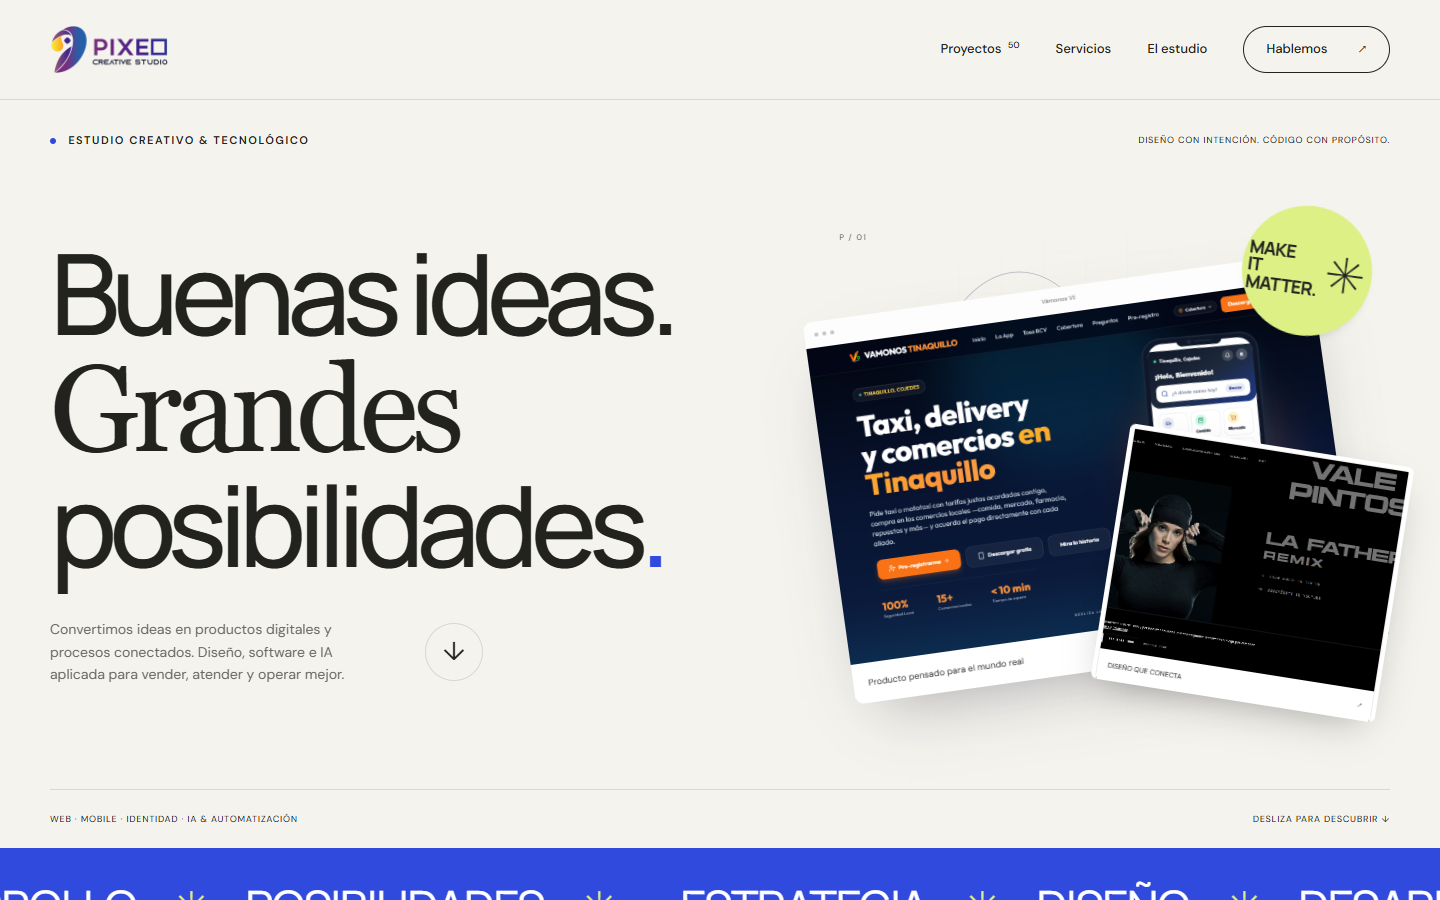
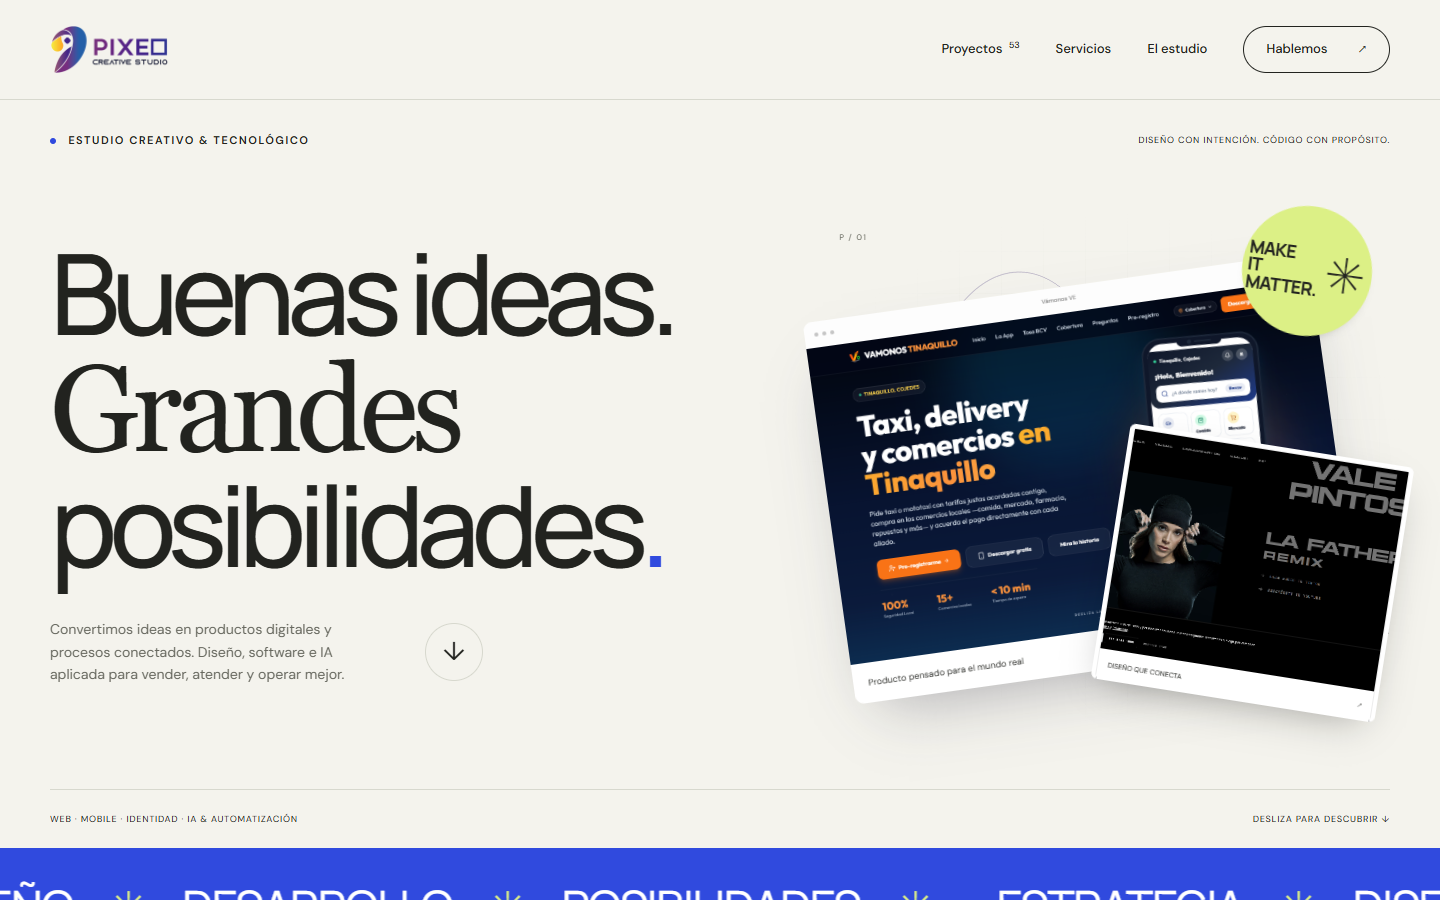
Completar 54 casos y verificar capturas locales e historicas

Changed region(s): [[0.0, 0.9644, 1.0, 1.0], [0.6562, 0.0311, 0.7188, 0.0622]]

diff --git a/data/local-captures.js b/data/local-captures.js
@@ -1,0 +1,136 @@
+// Interfaces locales verificadas y material historico identificado.
+export const localCaptures = [
+  {
+    "id": "calendario-operativo",
+    "image": "/assets/img/projects/2026-09-08/calendario-operativo-local.png",
+    "imageType": "local",
+    "captureVerifiedAt": "2026-09-08",
+    "imageCaption": "Componente local con datos de ejemplo"
+  },
+  {
+    "id": "clover-checkout-lab",
+    "image": "/assets/img/projects/2026-09-08/clover-checkout-lab-local.png",
+    "imageType": "local",
+    "captureVerifiedAt": "2026-09-08",
+    "imageCaption": "Vista local sin conexion a servicios"
+  },
+  {
+    "id": "course-management-lab",
+    "image": "/assets/img/projects/2026-09-08/course-management-lab-local.png",
+    "imageType": "local",
+    "captureVerifiedAt": "2026-09-08",
+    "imageCaption": "Vista local con datos de ejemplo"
+  },
+  {
+    "id": "extension-csv-renamer",
+    "image": "/assets/img/projects/2026-09-08/extension-csv-renamer-local.png",
+    "imageType": "local",
+    "captureVerifiedAt": "2026-09-08",
+    "imageCaption": "Vista local de configuracion"
+  },
+  {
+    "id": "gana-con-jym",
+    "image": "/assets/img/projects/2026-09-08/gana-con-jym-local.png",
+    "imageType": "local",
+    "captureVerifiedAt": "2026-09-08",
+    "imageCaption": "Vista local sin conexion a servicios"
+  },
+  {
+    "id": "hrglobalandco",
+    "image": "/assets/img/projects/2026-09-08/hrglobalandco-local.png",
+    "imageType": "local",
+    "captureVerifiedAt": "2026-09-08",
+    "imageCaption": "Vista local sin conexion a servicios"
+  },
+  {
+    "id": "martial-score",
+    "image": "/assets/img/projects/2026-09-08/martial-score-local.png",
+    "imageType": "local",
+    "captureVerifiedAt": "2026-09-08",
+    "imageCaption": "Componente local con datos de ejemplo"
+  },
+  {
+    "id": "pcs-admin",
+    "image": "/assets/img/projects/2026-09-08/pcs-admin-local.png",
+    "imageType": "local",
+    "captureVerifiedAt": "2026-09-08",
+    "imageCaption": "Componente local con datos de ejemplo"
+  },
+  {
+    "id": "rifas-que-mantequilla",
+    "image": "/assets/img/projects/2026-09-08/rifas-que-mantequilla-local.png",
+    "imageType": "local",
+    "captureVerifiedAt": "2026-09-08",
+    "imageCaption": "Vista local sin conexion a servicios"
+  },
+  {
+    "id": "smartfile-organizer",
+    "image": "/assets/img/projects/2026-09-08/smartfile-organizer-local.png",
+    "imageType": "local",
+    "captureVerifiedAt": "2026-09-08",
+    "imageCaption": "Aplicacion local en estado inicial"
+  },
+  {
+    "id": "system-competition-hapkido",
+    "image": "/assets/img/projects/2026-09-08/system-competition-hapkido-local.png",
+    "imageType": "local",
+    "captureVerifiedAt": "2026-09-08",
+    "imageCaption": "Componente local con datos de ejemplo"
+  },
+  {
+    "id": "ticketflow",
+    "image": "/assets/img/projects/2026-09-08/ticketflow-local.png",
+    "imageType": "local",
+    "captureVerifiedAt": "2026-09-08",
+    "imageCaption": "Vista local con datos de ejemplo"
+  },
+  {
+    "id": "pixeoflow-ai",
+    "image": "/assets/img/projects/2026-09-08/pixeoflow-ai-local.png",
+    "imageType": "local",
+    "captureVerifiedAt": "2026-09-08",
+    "imageCaption": "Vista local con datos de ejemplo"
+  },
+  {
+    "id": "iberocams",
+    "image": "/assets/img/portfolio/iberocams.svg",
+    "imageType": "historical",
+    "captureVerifiedAt": "2026-09-08",
+    "imageCaption": "Montaje historico de la interfaz; fecha original no documentada"
+  },
+  {
+    "id": "team-warriors",
+    "image": "/assets/img/portfolio/teamwarriorsmtb.svg",
+    "imageType": "historical",
+    "captureVerifiedAt": "2026-09-08",
+    "imageCaption": "Montaje historico de la interfaz; fecha original no documentada"
+  },
+  {
+    "id": "sgcc",
+    "image": "/assets/img/portfolio/sgcc.svg",
+    "imageType": "historical",
+    "captureVerifiedAt": "2026-09-08",
+    "imageCaption": "Montaje historico de la interfaz; fecha original no documentada"
+  },
+  {
+    "id": "rfid-timing",
+    "image": "/assets/img/portfolio/time-system.svg",
+    "imageType": "historical",
+    "captureVerifiedAt": "2026-09-08",
+    "imageCaption": "Montaje historico de la interfaz; fecha original no documentada"
+  },
+  {
+    "id": "residencia-santa-cruz",
+    "image": "/assets/img/portfolio/residencia-santa-cruz.svg",
+    "imageType": "historical",
+    "captureVerifiedAt": "2026-09-08",
+    "imageCaption": "Montaje historico de la interfaz; fecha original no documentada"
+  },
+  {
+    "id": "rifa-gana-con-martin",
+    "image": "/assets/img/portfolio/rgcm.webp",
+    "imageType": "historical",
+    "captureVerifiedAt": "2026-09-08",
+    "imageCaption": "Montaje historico de la interfaz; fecha original no documentada"
+  }
+];

diff --git a/data/additional-cases.js b/data/additional-cases.js
@@ -1,6 +1,97 @@
 // Casos adicionales identificados en los directorios de trabajo el 2026-09-07.
 // Un prototipo o integración no requiere cliente público para tener una ficha.
 export const additionalCases = [
+{
+  "id": "course-management-lab",
+  "name": "Gestión académica · Angular / Laravel",
+  "kicker": "Educación · Laboratorio full stack",
+  "summary": "Aplicación de gestión de cursos, estudiantes e inscripciones, con acceso de administradores y una API para consultar y mantener los registros.",
+  "role": "Desarrollo de un proyecto técnico de gestión académica",
+  "stack": [
+    "Angular",
+    "TypeScript",
+    "Laravel",
+    "PHP",
+    "REST API"
+  ],
+  "categories": [
+    "web",
+    "backend",
+    "prototype"
+  ],
+  "visual": "desktop",
+  "url": "",
+  "status": "Prototipo local",
+  "featured": false
+},
+{
+  "id": "clover-checkout-lab",
+  "name": "Clover · Laboratorio de checkout",
+  "kicker": "Pagos · Herramienta de integración",
+  "summary": "Herramienta para preparar sesiones de checkout, configurar productos e impuestos y probar la integración con Clover en un entorno de pruebas.",
+  "role": "Desarrollo de interfaz y pruebas de integración de pagos",
+  "stack": [
+    "Node.js",
+    "JavaScript",
+    "Bootstrap",
+    "Clover API"
+  ],
+  "categories": [
+    "web",
+    "backend",
+    "fintech",
+    "prototype"
+  ],
+  "visual": "desktop",
+  "url": "",
+  "status": "Prototipo local",
+  "featured": false
+},
+{
+  "id": "pixeo-whatsapp-assistant",
+  "name": "Pixeo · Asistente WhatsApp",
+  "kicker": "IA · Atención y servicios",
+  "summary": "Prototipo de asistente conversacional con menús de servicios de Pixeo, consultas asistidas por IA y procesamiento de notas de voz.",
+  "role": "Adaptación de flujos conversacionales e integración de IA sobre Bot WhatsApp",
+  "stack": [
+    "Node.js",
+    "Bot WhatsApp",
+    "Baileys",
+    "OpenAI",
+    "Whisper"
+  ],
+  "categories": [
+    "ai",
+    "automation",
+    "prototype"
+  ],
+  "visual": "ai",
+  "url": "",
+  "status": "Prototipo local",
+  "featured": false
+},
+{
+  "id": "naycarh-imports",
+  "name": "Naycarh Imports",
+  "kicker": "Comercio · Tienda WordPress",
+  "summary": "Proyecto de tienda de importaciones con identidad de Naycarh Imports, catálogo y recursos de comercio electrónico sobre WordPress y WooCommerce.",
+  "role": "Configuración y personalización de una tienda basada en Astra y WooCommerce",
+  "stack": [
+    "WordPress",
+    "WooCommerce",
+    "Astra",
+    "PHP"
+  ],
+  "categories": [
+    "web",
+    "commerce",
+    "prototype"
+  ],
+  "visual": "commerce",
+  "url": "",
+  "status": "Prototipo local",
+  "featured": false
+},
   {
     id: 'hapkido-var-system', name: 'Hapkido VAR System', kicker: 'SportTech · Revisión de combate',
     summary: 'Prototipo de revisión arbitral con vistas de cámaras, monitorización en directo y una línea de tiempo para revisar secuencias del combate.',

diff --git a/data/portfolio-data.js b/data/portfolio-data.js
@@ -1,4 +1,5 @@
 import { additionalCases } from './additional-cases.js';
+import { localCaptures } from './local-captures.js';
 import { captureAudit } from './capture-audit.js';
 
 export const profile = {
@@ -13,7 +14,7 @@ export const profile = {
   whatsapp: '584129354940',
   linkedin: 'https://www.linkedin.com/in/roberto-velazquez-55a718124/',
   github: 'https://github.com/rjvelazquez',
-  agency: 'https://pixeocreativestudio.web.app/',
+  agency: 'https://pixeocreativestudio.com/',
   portfolio: 'https://rjvelazquez.web.app/',
   summary:
     'Desarrollo productos web y móviles que conectan operación, negocio y tecnología. Mi experiencia combina interfaces, APIs, datos, cloud, automatización, soporte técnico y liderazgo de proyectos para clientes en Venezuela, Puerto Rico y otros mercados.',
@@ -653,6 +654,7 @@ const repositoryGroups = [
 ];
 
 const repositoryCaseIds = {
+  TestLaravelAngular: 'course-management-lab',
   'Hapkido-VAR-System': 'hapkido-var-system', 'Sentinel-AI': 'sentinel-ai',
   'pixeo-leadengine': 'pixeoflow-ai', Pixiebot: 'pixeoflow-ai',
   'PCS-Admin': 'pcs-admin',
@@ -744,6 +746,9 @@ export const cases = [...baselineCases, ...additionalCases].map((project) => {
       ? 'Portada ilustrativa · sin captura pública verificada'
       : 'Captura histórica · pendiente de actualización';
   }
+  const localCapture = localCaptures.find((entry) => entry.id === project.id);
+  if (localCapture) Object.assign(result, localCapture);
+  if (project.id === 'pixeo') result.url = 'https://pixeocreativestudio.com/';
   return result;
 }).sort((a, b) => {
   const priority = ['vamonos', 'hapkido-score-system', 'fast-sport-timing'];

diff --git a/data/capture-audit.js b/data/capture-audit.js
@@ -1,4 +1,4 @@
-// Verificación de interfaces públicas; los accesos restringidos no son capturas de producto.
+// Verificacion de interfaces publicas; accesos restringidos no son capturas de producto.
 export const captureAudit = [
   {
     "id": "vamonos",
@@ -68,12 +68,12 @@ export const captureAudit = [
   },
   {
     "id": "pixeo",
-    "requestedUrl": "https://pixeocreativestudio.web.app/",
-    "finalUrl": "https://pixeocreativestudio.web.app/",
+    "requestedUrl": "https://pixeocreativestudio.com/",
+    "finalUrl": "https://pixeocreativestudio.com/",
     "status": "captured",
     "title": "Pixeo Creative Studio — Buenas ideas. Grandes posibilidades.",
     "image": "/assets/img/projects/2026-09-08/pixeo.png",
-    "verifiedAt": "2026-09-08T14:16:48.601085+00:00",
+    "verifiedAt": "2026-09-09T03:57:17.679Z",
     "verdict": "valid",
     "reason": "Interfaz pública desplegada con 50 casos y propuesta de IA; captura verificada visualmente."
   },

diff --git a/sw.js b/sw.js
@@ -1,4 +1,4 @@
-const VERSION = '2.0.3';
+const VERSION = '2.0.4';
 const CACHE_NAME = `rv-portfolio-${VERSION}`;
 const PRECACHE = [
   '/',
@@ -13,6 +13,7 @@ const PRECACHE = [
   '/data/portfolio-data.js',
   '/data/additional-cases.js',
   '/data/capture-audit.js',
+  '/data/local-captures.js',
   '/js/site.js',
   '/js/home.js',
   '/js/projects.js',
